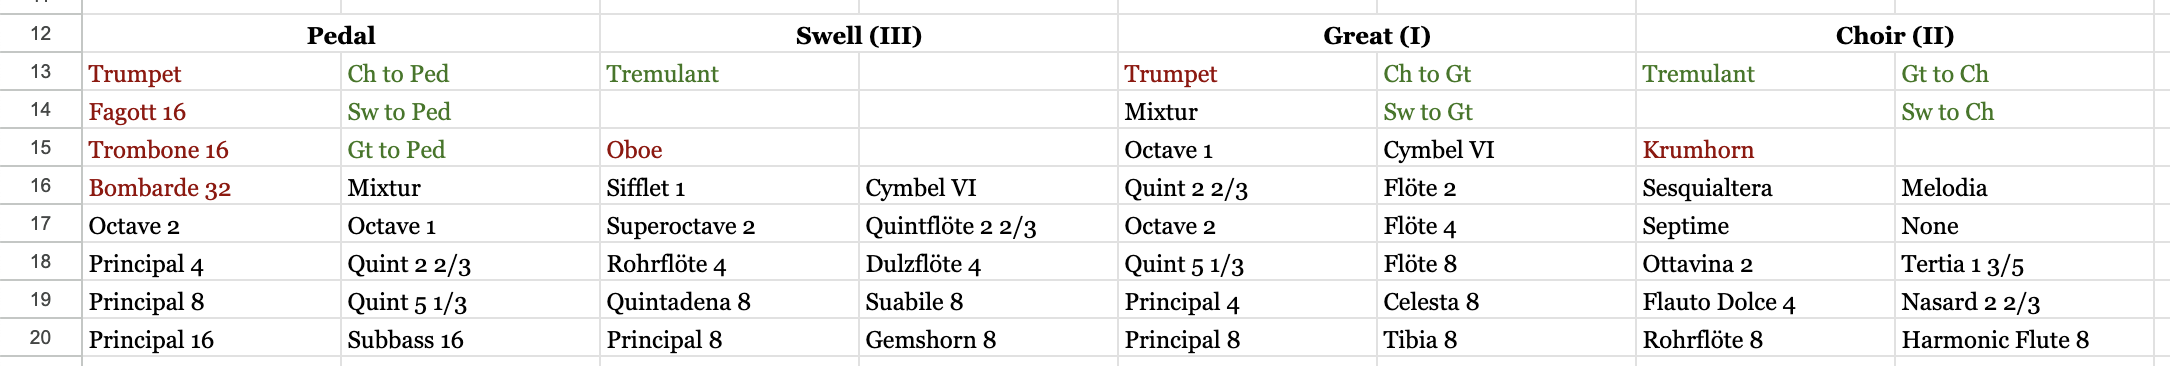
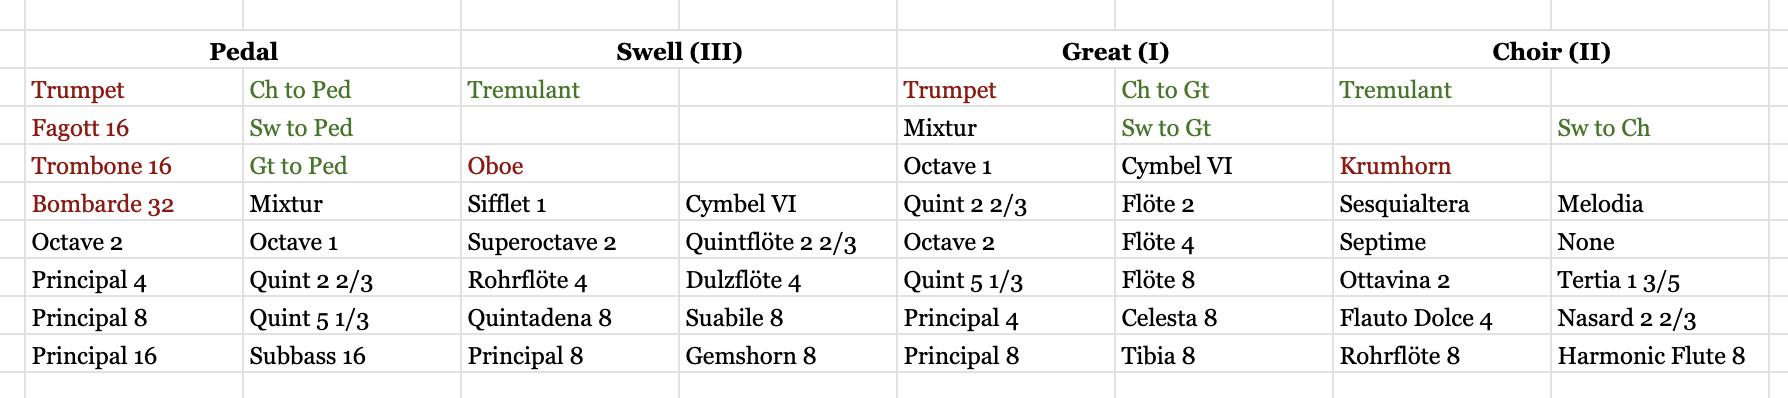
also display rotated
oops!

Harder than it looks to do an operator<() of a simple multi-field type innit?
std::tie to the rescue

Changed region(s): [[0.0, 0.0, 1.0, 1.0]]

diff --git a/Launchpad.cc b/Launchpad.cc
@@ -12,12 +12,19 @@ void Launchpad::init() {
 }
 
 void Launchpad::reset() {
-  midi_.observer = [this](midi::Message msg) { dispatch(msg); };
   midi_.send({0xb0, {0, 0}});
 }
 
 void Launchpad::configureStopmap(std::string config) {
-  stopmap_ = launchpad::parseStopmapFromConfig(std::move(config));
+  stopmap_ = launchpad::parseStopmapFromConfig(config);
+  gridmap_.clear();
+  for (auto [button, stop] : stopmap_) {
+    if (stop) {
+      gridmap_[*stop] = button;
+    } else {
+      LOGf("No stop for %x%x", button.first, button.second);
+    }
+  }
 }
 
 void Launchpad::dispatch(midi::Message const msg) {
@@ -108,6 +115,13 @@ std::optional<Command::Stop> Launchpad::gridToStop(uint8_t button) {
   return stopmap_[{row, col}];
 }
 
+std::optional<std::pair<int, int>> Launchpad::stopToGrid(Command::Stop stop) {
+  if (gridmap_.contains(stop)) {
+    return gridmap_[stop];
+  }
+  return {};
+}
+
 uint8_t Launchpad::velocity(Launchpad::Color color,
                             Launchpad::Intensity intensity) {
   uint8_t green = 0;
@@ -130,23 +144,27 @@ void Launchpad::topRow(uint8_t loc, Button button) {
   render(s2);
 }
 
-void Launchpad::jambStateUpdate(jamb::State const& j) {
+void Launchpad::jambStateUpdate(jamb::State const& jState) {
   Button const off = {Launchpad::Color::Off, Launchpad::Intensity::Off};
   State s2 = state_;
   for (auto i = 0; i < 8; i++) {
     s2.topRow[i] = off;
   }
 
-  if (j.activeCombination.has_value()) {
-    s2.topRow[j.activeCombination->piston] = {Launchpad::Color::Green,
-                                              Launchpad::Intensity::Mid};
+  if (jState.activeCombination.has_value()) {
+    s2.topRow[jState.activeCombination->piston] = {Launchpad::Color::Green,
+                                                   Launchpad::Intensity::Mid};
   }
 
-  for (auto i = 0; i < j.groups.size(); i++) {
-    auto& g = j.groups[i];
+  for (auto i = 0; i < jState.groups.size(); i++) {
+    auto& g = jState.groups[i];
     for (auto j = 0; j < g.size(); j++) {
-      auto row = i * 2;
-      auto col = j;
+      Command::Stop stop{uint8_t(i), uint8_t(j)};
+      auto oGrid = stopToGrid(stop);
+      if (!oGrid.has_value()) {
+        continue;
+      }
+      auto [row, col] = *oGrid;
       if (j >= 8) {
         row++;
         col -= 8;
@@ -206,16 +224,24 @@ Stopmap parseStopmapFromConfig(std::string config, std::string instrument) {
         auto sStopmap = yLp["stopmap"].as<string>();
         // strip leading whitespace
         auto beg = sStopmap.find_first_not_of(" \t\n");
-        sStopmap = sStopmap.erase(0, beg);
+        sStopmap.erase(0, beg);
         uint8_t row = 0, col = 0;
         bool success = false;
         for (char x : sStopmap) {
           if (x == '\n') {
-            if (++row >= 8) {
+            if (col < 8) {
+              break;
+            }
+            row++;
+            if (row >= 8) {
               success = true;
               break;
             }
             col = 0;
+            continue;
+          }
+          if (col >= 8) {
+            // if we go off the end, just keep going until we find a newline
             continue;
           }
           if (x == ' ') {
@@ -225,17 +251,12 @@ Stopmap parseStopmapFromConfig(std::string config, std::string instrument) {
             col++;
             continue;
           }
-          if (col >= 8) {
-            // if we go off the end, just keep going until we find a newline
-            continue;
-          }
           uint8_t const group = groupmap[col / 2];
           int elem;
           char buf[] = {x, '\0'};
           sscanf(buf, "%x", &elem);
           if (group >= 4 || elem >= 16) {
-            // bad input
-            LOG << "Bad data in stopmap\n";
+            LOG << "Bad data in config\n";
           } else {
             result[{row, col}] = {group, uint8_t(elem)};
           }

diff --git a/test/Jamb.cc b/test/Jamb.cc
@@ -26,7 +26,7 @@ TEST(Jamb, stopToggle) {
   lpMidi.messages_.clear();
   aeolusMidi.messages_.clear();
 
-  lpMidi.emit({0x90, {0x17, midi::kFullVelocity}});  // group 1 button 15
+  lpMidi.emit({0x90, {0x11, midi::kFullVelocity}});  // group 1 button 15
   lpMidi.emit({0x90, {0x42, midi::kFullVelocity}});  // group 2 button 2
   lpMidi.emit({0x90, {0x42, midi::kFullVelocity}});  // group 2 button 2
   ApprovalTests::Approvals::verifyAll({lpMidi, aeolusMidi});
@@ -107,16 +107,15 @@ TEST(Jamb, unserializeMemory) {
 memory:
   0:
     0:
-      - ..............o.
-      - ......oooo......
-      - ................
-      - ...o............
+      - o.o.o...........
+      - .........o......
+      - ooo............o
+      - .ooo............
     3:
       - ................
-      - ........ooo.....
+      - ..oo...ooo......
       - ...........oo...
-      - ....o...........
-
+      - ....o..o........
   )";
   jamb.memoryFromString(memory);
   lpMidi.emit({0xb0, {0x68, midi::kFullVelocity}});

diff --git a/README.md b/README.md
@@ -11,7 +11,7 @@ Traditional organ consoles arrange stops in columns by division, with lower stop
 
 ![default stop layout spreadsheet screenshot](default-config.png)
 
-This assumes the default "Aeolus" instrument. See jamb-config.yaml
+This assumes the default "Aeolus" instrument. See `jamb.config.yaml`.
 
 [View a demonstration](https://www.youtube.com/shorts/1N0cK-HaY4k)
 
